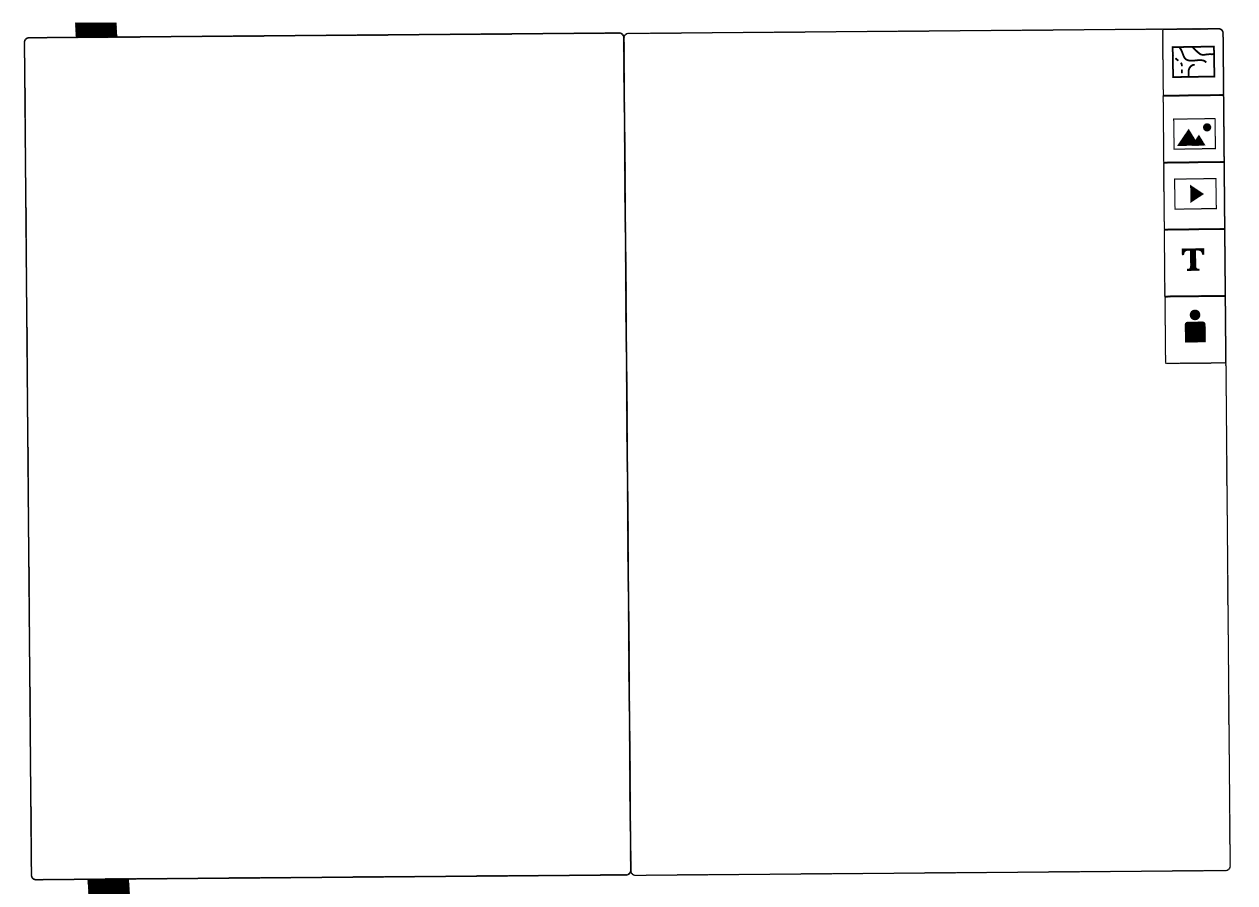
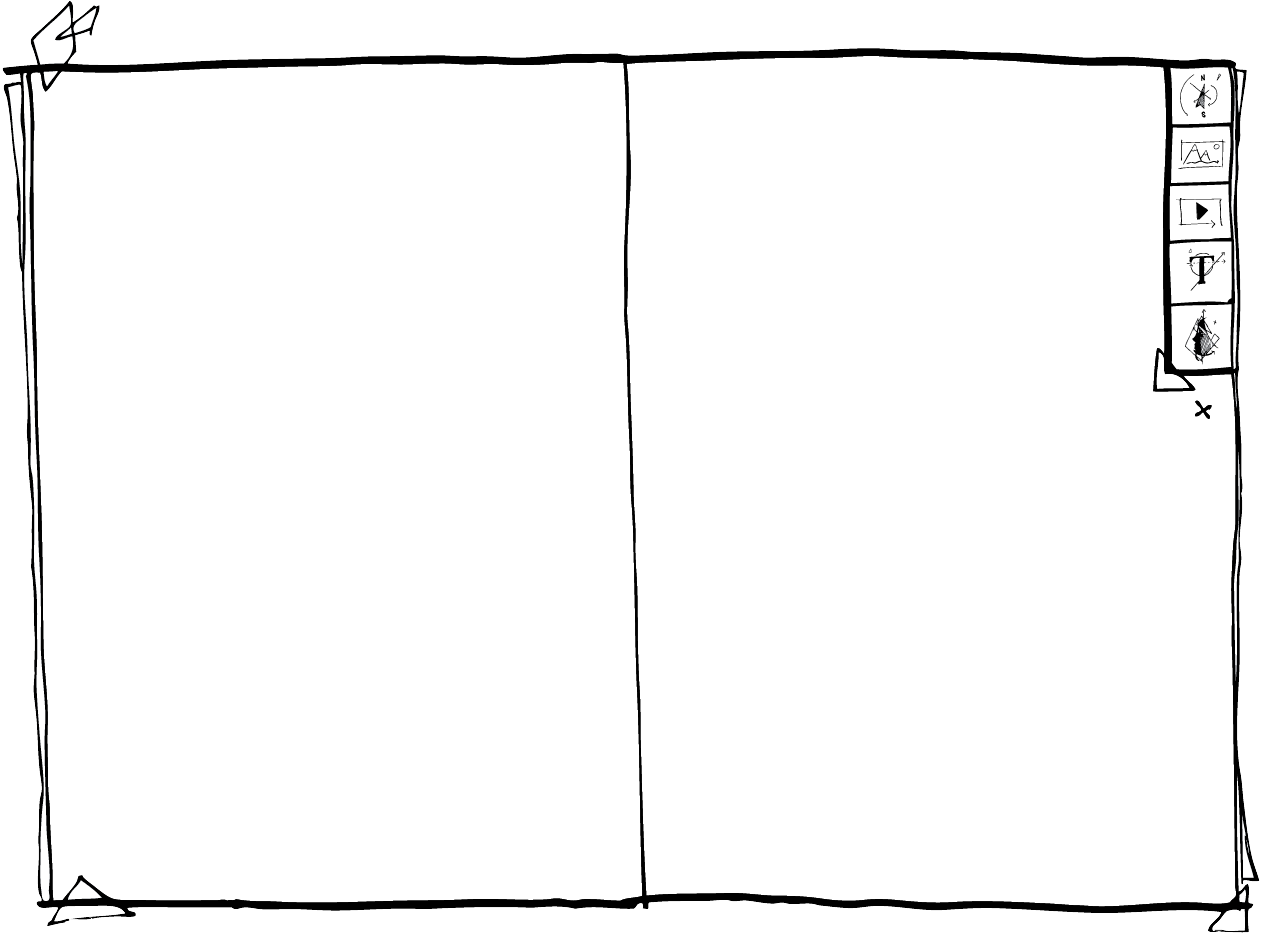
20151001

Changed region(s): [[0.0, 0.0, 1.0, 1.0], [0.4956, 0.1235, 0.5266, 0.2161]]

diff --git a/Buda Interactiu/js/funcions2.js b/Buda Interactiu/js/funcions2.js
@@ -12,6 +12,7 @@ var menu1 = function(){
 };
 
 $('.boto').on('click',function(){
+    var color = $('#dossier').data('color');
     switch ($(this).attr('id')){
         case 'botomapa':
             $('#mapa').show();
@@ -19,6 +20,8 @@ $('.boto').on('click',function(){
             $('#videos').hide();
             $('#textos').hide();
             $('#perfil').hide();
+            $('.boto').removeClass(color);
+            $('#botomapa').addClass(color);
             break;
         case 'botofoto':
             $('#fotos').show();
@@ -26,6 +29,8 @@ $('.boto').on('click',function(){
             $('#videos').hide();
             $('#textos').hide();
             $('#perfil').hide();
+            $('.boto').removeClass(color);
+            $('#botofoto').addClass(color);
             break;
         case 'botovideo':
             $('#videos').show();
@@ -33,6 +38,8 @@ $('.boto').on('click',function(){
             $('#mapa').hide();
             $('#textos').hide();
             $('#perfil').hide();
+            $('.boto').removeClass(color);
+            $('#botovideo').addClass(color);
             break;
         case 'bototext':
             $('#textos').show();
@@ -40,6 +47,8 @@ $('.boto').on('click',function(){
             $('#videos').hide();
             $('#mapa').hide();
             $('#perfil').hide();
+            $('.boto').removeClass(color);
+            $('#bototext').addClass(color);
             break;
         case 'botoperfil':
             $('#perfil').show();
@@ -47,6 +56,8 @@ $('.boto').on('click',function(){
             $('#videos').hide();
             $('#textos').hide();
             $('#mapa').hide();
+            $('.boto').removeClass(color);
+            $('#botoperfil').addClass(color);
             break;
     }
 });

diff --git a/Buda Interactiu/css/registre.css b/Buda Interactiu/css/registre.css
@@ -65,40 +65,46 @@ button{
     -ms-transform: rotate(-1deg);
     -webkit-transform: rotate(-1deg);
     transform: rotate(-1deg);
-    width: 3.4vw;
-    height: 3.5vw;
+    width: 3.3vw;
+    height: 3.3vw;
     z-index: 200;
     cursor: pointer;
+    opacity: .6;
+}
+.boto:hover{
+    background-color: gray;
+    opacity: .2;
 }
 #botomapa{
-    top: 1.8vw;
-    right: 2.4vw;
+    top: 3.7vw;
+    right: 2vw;
 }
 #botofoto{
-    top: 5.55vw;
-    right: 2.4vw;
+    top: 7vw;
+    right: 2vw;
 }
 #botovideo{
-    top: 9.28vw;
-    right: 2.3vw;
+    top: 10.25vw;
+    right: 2.1vw;
 }
 #bototext{
-    top: 13.15vw;
-    right: 2.3vw;
+    top: 13.6vw;
+    right: 2.05vw;
 }
 #botoperfil{
-    top: 16.9vw;
-    right: 2.3vw;
+    top: 17.1vw;
+    right: 2vw;
+    height: 3.6vw;
 }
 .objecte{
-    height: 47.1vw;
+    height: 46.8vw;
     position: absolute;
     -ms-transform: rotate(-0.5deg);
     -webkit-transform: rotate(-0.5deg);
     transform: rotate(-0.5deg);
     width: 93.2%;
     margin-left: 0.2vw;
-    margin-top: 2vw;
+    margin-top: 3.6vw;
     padding: 30px;
     display: none;
     z-index: 101;

diff --git a/Buda Interactiu/inici.php b/Buda Interactiu/inici.php
@@ -62,7 +62,7 @@ $t = $db->query('SELECT * FROM textos WHERE usuari='.$per['id']);
           </div>
         </div>
         <div class="col-lg-9 col-md-9 col-sm-12 dossier">
-            <div id="botomapa" class="boto"></div>
+            <div id="botomapa" class="boto <?=$c?>"></div>
             <div id="botofoto" class="boto"></div>
             <div id="botovideo" class="boto"></div>
             <div id="bototext" class="boto"></div>
@@ -104,7 +104,7 @@ $t = $db->query('SELECT * FROM textos WHERE usuari='.$per['id']);
                     
                 </div>
             </div>            
-            <img id="dossier" src="img/dossier-obert.png" alt="Imatge del dossier obert"/>
+            <img id="dossier" src="img/dossier-obert.png" alt="Imatge del dossier obert" data-color="<?=$c?>"/>
         </div>
         <div id="imatgegran" class="fons">
             <img id="fotogran" src="" alt="">
